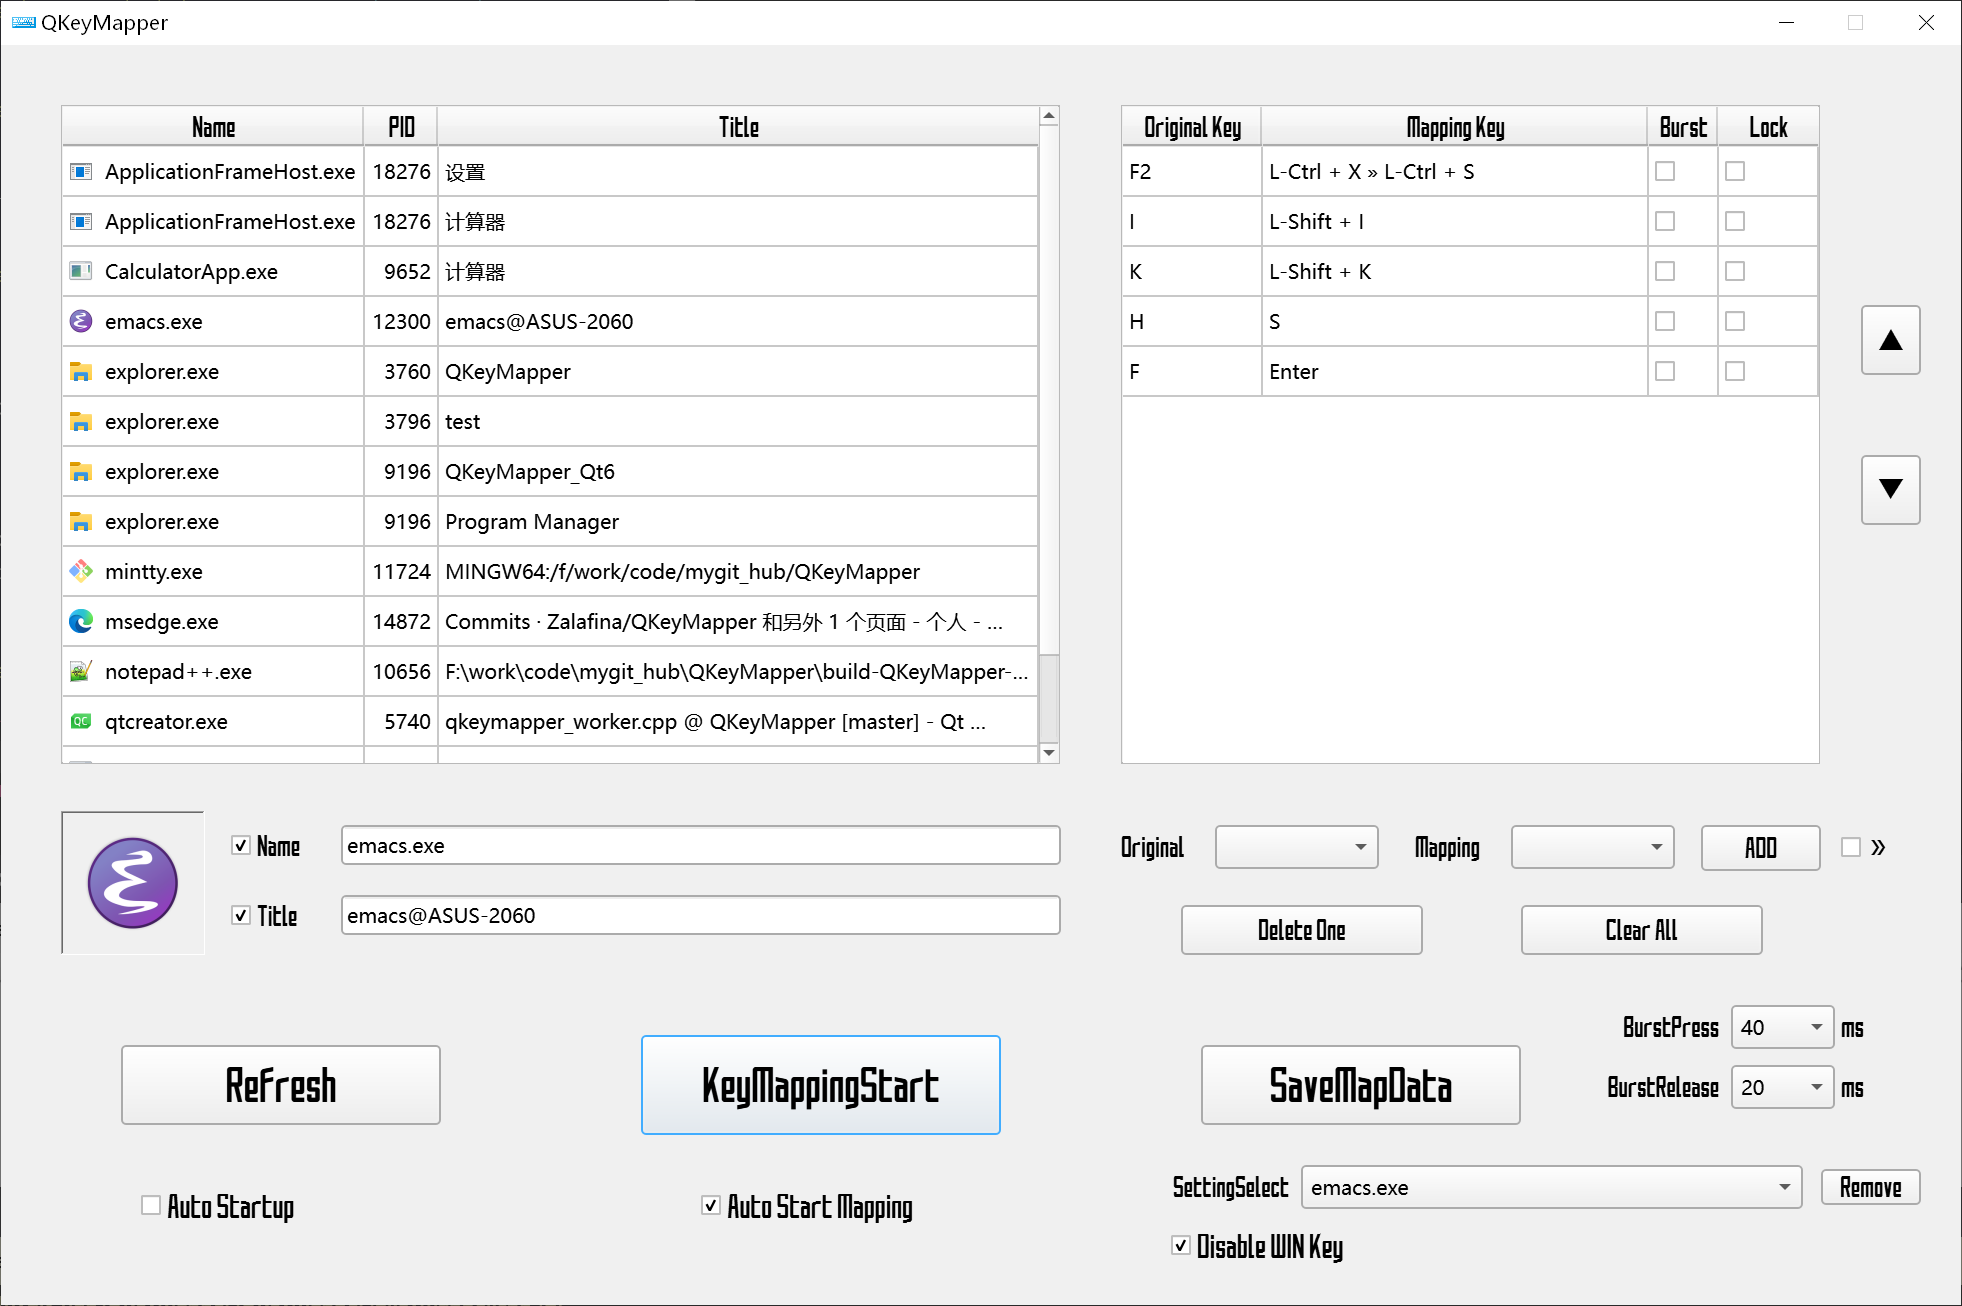
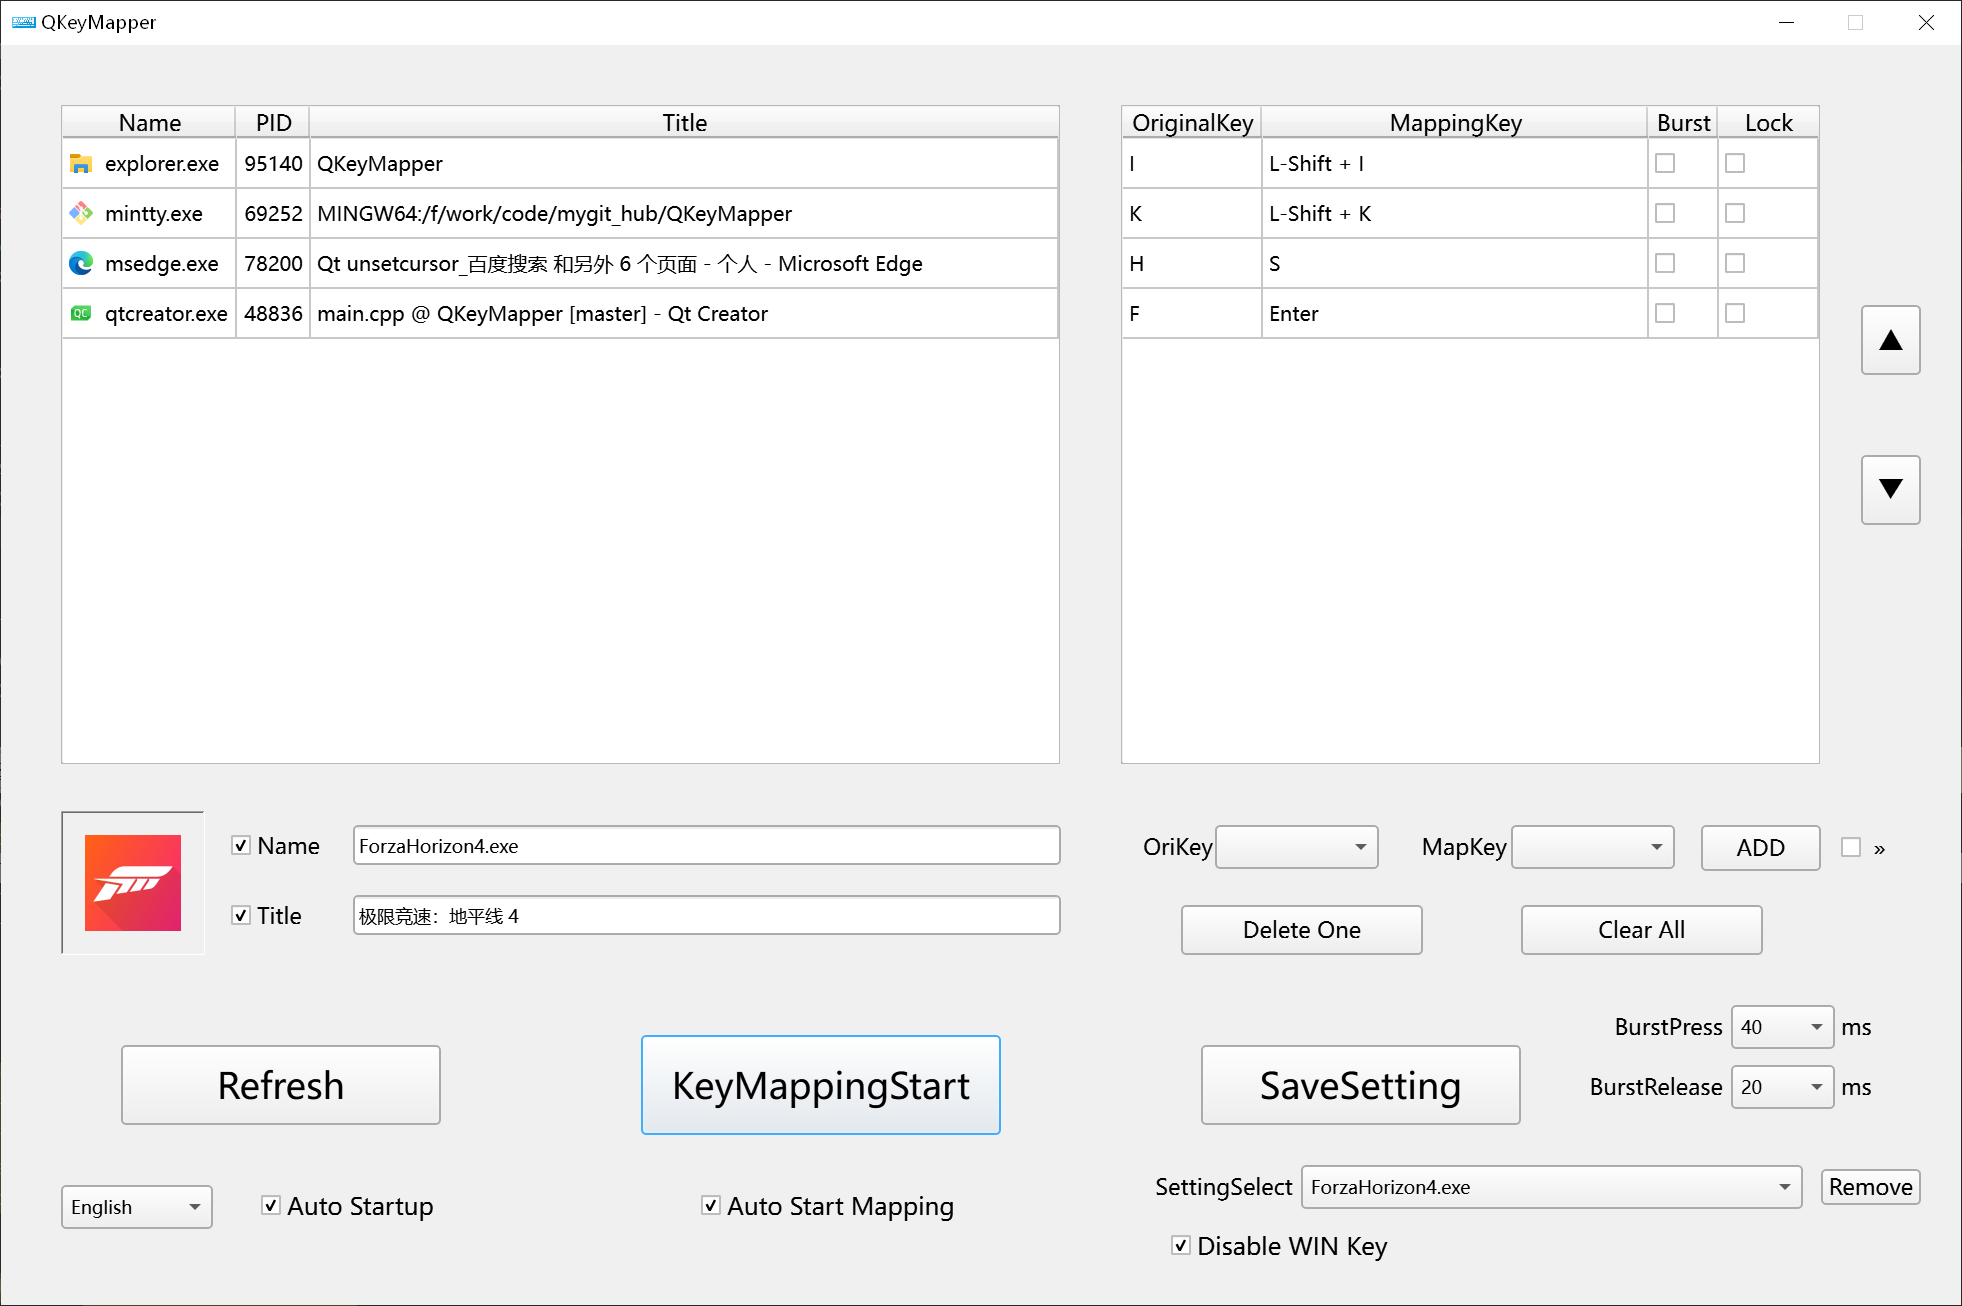
Adapt to different resolutions.

diff --git a/QKeyMapper/qkeymapper.cpp b/QKeyMapper/qkeymapper.cpp
@@ -1925,7 +1925,9 @@ bool QKeyMapper::loadKeyMapSetting(const QString &settingtext)
         QMessageBox::warning(this, tr("QKeyMapper"), tr("<html><head/><body><p align=\"center\">Load invalid keymapdata from ini file.</p><p align=\"center\">Reset to default values.</p></body></html>"));
         return false;
     }
-    else{
+    else {
+        ui->nameLineEdit->setCursorPosition(0);
+        ui->titleLineEdit->setCursorPosition(0);
         if ((true == autoStartMappingChecked) && (true == settingtext.isEmpty())) {
             on_keymapButton_clicked();
         }
@@ -2020,31 +2022,21 @@ void QKeyMapper::setControlFontEnglish()
 {
     QFont customFont(FONTNAME_ENGLISH);
 
-    if (UI_SCALE_2K_PERCENT_100 == m_UI_Scale
-        || UI_SCALE_2K_PERCENT_125 == m_UI_Scale
-        || UI_SCALE_2K_PERCENT_150 == m_UI_Scale
-        || UI_SCALE_1K_PERCENT_100 == m_UI_Scale
-        || UI_SCALE_1K_PERCENT_125 == m_UI_Scale
-        || UI_SCALE_1K_PERCENT_150 == m_UI_Scale) {
-        customFont.setPointSize(14);
+    if (UI_SCALE_4K_PERCENT_150 == m_UI_Scale) {
+        customFont.setPointSize(18);
     }
     else {
-        customFont.setPointSize(18);
+        customFont.setPointSize(14);
     }
     ui->refreshButton->setFont(customFont);
     ui->keymapButton->setFont(customFont);
     ui->savemaplistButton->setFont(customFont);
 
-    if (UI_SCALE_2K_PERCENT_100 == m_UI_Scale
-        || UI_SCALE_2K_PERCENT_125 == m_UI_Scale
-        || UI_SCALE_2K_PERCENT_150 == m_UI_Scale
-        || UI_SCALE_1K_PERCENT_100 == m_UI_Scale
-        || UI_SCALE_1K_PERCENT_125 == m_UI_Scale
-        || UI_SCALE_1K_PERCENT_150 == m_UI_Scale) {
-        customFont.setPointSize(9);
+    if (UI_SCALE_4K_PERCENT_150 == m_UI_Scale) {
+        customFont.setPointSize(11);
     }
     else {
-        customFont.setPointSize(11);
+        customFont.setPointSize(9);
     }
     ui->deleteoneButton->setFont(customFont);
     ui->clearallButton->setFont(customFont);
@@ -2064,16 +2056,11 @@ void QKeyMapper::setControlFontEnglish()
     ui->processinfoTable->horizontalHeader()->setFont(customFont);
     ui->keymapdataTable->horizontalHeader()->setFont(customFont);
 
-    if (UI_SCALE_2K_PERCENT_100 == m_UI_Scale
-        || UI_SCALE_2K_PERCENT_125 == m_UI_Scale
-        || UI_SCALE_2K_PERCENT_150 == m_UI_Scale
-        || UI_SCALE_1K_PERCENT_100 == m_UI_Scale
-        || UI_SCALE_1K_PERCENT_125 == m_UI_Scale
-        || UI_SCALE_1K_PERCENT_150 == m_UI_Scale) {
-        customFont.setPointSize(10);
+    if (UI_SCALE_4K_PERCENT_150 == m_UI_Scale) {
+        customFont.setPointSize(12);
     }
     else {
-        customFont.setPointSize(12);
+        customFont.setPointSize(10);
     }
     ui->disableWinKeyCheckBox->setFont(customFont);
     ui->autoStartMappingCheckBox->setFont(customFont);
@@ -2084,31 +2071,21 @@ void QKeyMapper::setControlFontChinese()
 {
     QFont customFont(FONTNAME_CHINESE, 18, QFont::Bold);
 
-    if (UI_SCALE_2K_PERCENT_100 == m_UI_Scale
-        || UI_SCALE_2K_PERCENT_125 == m_UI_Scale
-        || UI_SCALE_2K_PERCENT_150 == m_UI_Scale
-        || UI_SCALE_1K_PERCENT_100 == m_UI_Scale
-        || UI_SCALE_1K_PERCENT_125 == m_UI_Scale
-        || UI_SCALE_1K_PERCENT_150 == m_UI_Scale) {
-        customFont.setPointSize(16);
+    if (UI_SCALE_4K_PERCENT_150 == m_UI_Scale) {
+        customFont.setPointSize(18);
     }
     else {
-        customFont.setPointSize(18);
+        customFont.setPointSize(14);
     }
     ui->refreshButton->setFont(customFont);
     ui->keymapButton->setFont(customFont);
     ui->savemaplistButton->setFont(customFont);
 
-    if (UI_SCALE_2K_PERCENT_100 == m_UI_Scale
-        || UI_SCALE_2K_PERCENT_125 == m_UI_Scale
-        || UI_SCALE_2K_PERCENT_150 == m_UI_Scale
-        || UI_SCALE_1K_PERCENT_100 == m_UI_Scale
-        || UI_SCALE_1K_PERCENT_125 == m_UI_Scale
-        || UI_SCALE_1K_PERCENT_150 == m_UI_Scale) {
-        customFont.setPointSize(9);
+    if (UI_SCALE_4K_PERCENT_150 == m_UI_Scale) {
+        customFont.setPointSize(11);
     }
     else {
-        customFont.setPointSize(11);
+        customFont.setPointSize(9);
     }
     ui->deleteoneButton->setFont(customFont);
     ui->clearallButton->setFont(customFont);
@@ -2128,16 +2105,11 @@ void QKeyMapper::setControlFontChinese()
     ui->processinfoTable->horizontalHeader()->setFont(customFont);
     ui->keymapdataTable->horizontalHeader()->setFont(customFont);
 
-    if (UI_SCALE_2K_PERCENT_100 == m_UI_Scale
-        || UI_SCALE_2K_PERCENT_125 == m_UI_Scale
-        || UI_SCALE_2K_PERCENT_150 == m_UI_Scale
-        || UI_SCALE_1K_PERCENT_100 == m_UI_Scale
-        || UI_SCALE_1K_PERCENT_125 == m_UI_Scale
-        || UI_SCALE_1K_PERCENT_150 == m_UI_Scale) {
-        customFont.setPointSize(10);
+    if (UI_SCALE_4K_PERCENT_150 == m_UI_Scale) {
+        customFont.setPointSize(12);
     }
     else {
-        customFont.setPointSize(12);
+        customFont.setPointSize(10);
     }
     ui->disableWinKeyCheckBox->setFont(customFont);
     ui->autoStartMappingCheckBox->setFont(customFont);

diff --git a/QKeyMapper/main.cpp b/QKeyMapper/main.cpp
@@ -78,20 +78,17 @@ int main(int argc, char *argv[])
     double dScreenWidth = static_cast<double>(nScreenWidth);
     double scale = dWidth / dScreenWidth;
 
-#if (QT_VERSION >= QT_VERSION_CHECK(6, 0, 0))
-    QGuiApplication::setHighDpiScaleFactorRoundingPolicy(Qt::HighDpiScaleFactorRoundingPolicy::PassThrough);
-#elif (QT_VERSION >= QT_VERSION_CHECK(5, 6, 0)) && (QT_VERSION < QT_VERSION_CHECK(6, 0, 0))
-    QCoreApplication::setAttribute(Qt::AA_EnableHighDpiScaling);
-#endif
-
 #ifdef DEBUG_LOGOUT_ON
     qDebug() << "Original QT_SCALE_FACTOR ->" << qgetenv("QT_SCALE_FACTOR");
 #endif
+
+    bool Flag_4K = false;
 
     if (scale < 1.10) {
         if (dWidth >= 3840) {
             qputenv("QT_SCALE_FACTOR", "1.5");
             qputenv("WINDOWS_SCALE_FACTOR", "4K_1.0");
+            Flag_4K = true;
 #ifdef DEBUG_LOGOUT_ON
             qDebug() << "Set QT_SCALE_FACTOR to [1.5] for screen width ->" << dWidth;
 #endif
@@ -113,6 +110,7 @@ int main(int argc, char *argv[])
     }
     else if (1.24 <= scale &&  scale <= 1.26) {
         if (dWidth >= 3840) {
+            Flag_4K = true;
             qputenv("WINDOWS_SCALE_FACTOR", "4K_1.25");
         }
         else if (dWidth >= 2560) {
@@ -124,6 +122,7 @@ int main(int argc, char *argv[])
     }
     else if (1.49 <= scale &&  scale <= 1.51) {
         if (dWidth >= 3840) {
+            Flag_4K = true;
             qputenv("WINDOWS_SCALE_FACTOR", "4K_1.5");
         }
         else if (dWidth >= 2560) {
@@ -138,6 +137,17 @@ int main(int argc, char *argv[])
         qDebug() << "Original screen scale ->" << scale << "," << "Screen width ->" << dWidth << ", do not need to set QT_SCALE_FACTOR.";
 #endif
     }
+
+#if (QT_VERSION >= QT_VERSION_CHECK(6, 0, 0))
+    if (Flag_4K == true) {
+        QGuiApplication::setHighDpiScaleFactorRoundingPolicy(Qt::HighDpiScaleFactorRoundingPolicy::Ceil);
+    }
+    else {
+        QGuiApplication::setHighDpiScaleFactorRoundingPolicy(Qt::HighDpiScaleFactorRoundingPolicy::PassThrough);
+    }
+#elif (QT_VERSION >= QT_VERSION_CHECK(5, 6, 0)) && (QT_VERSION < QT_VERSION_CHECK(6, 0, 0))
+    QCoreApplication::setAttribute(Qt::AA_EnableHighDpiScaling);
+#endif
 
 #ifdef SINGLE_APPLICATION
     QApplication::setApplicationName("QKeyMapper");
